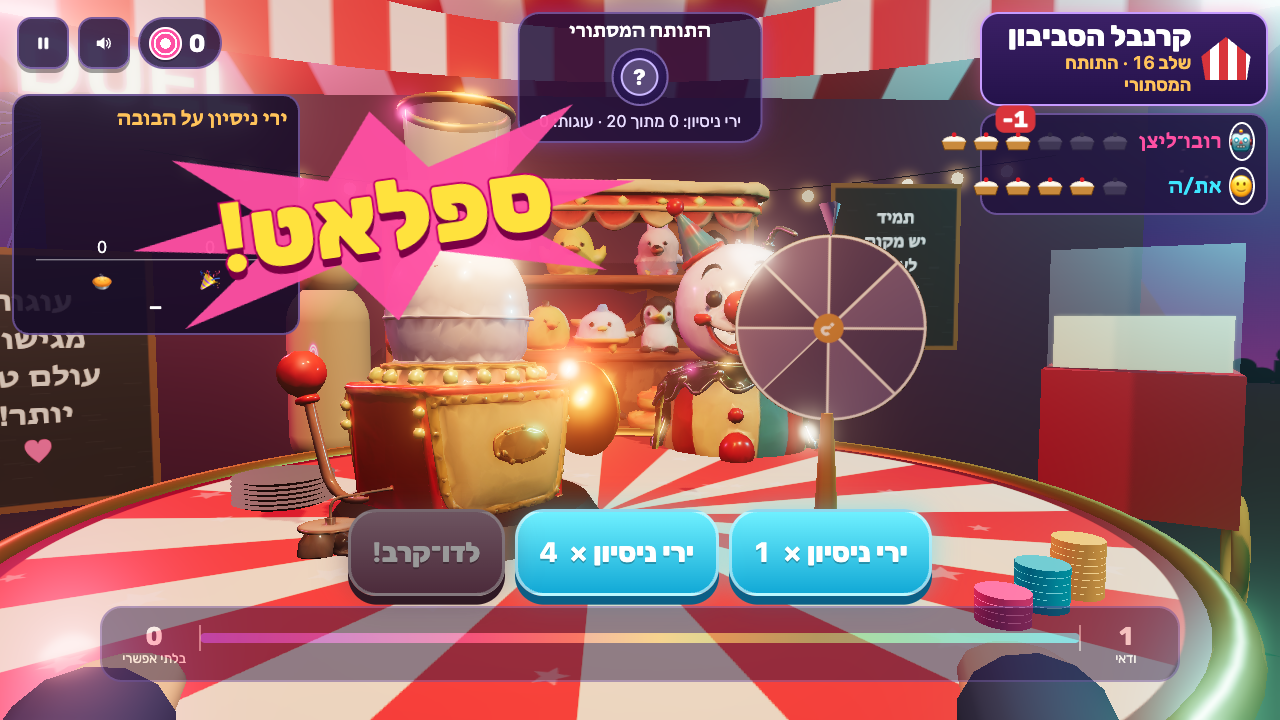
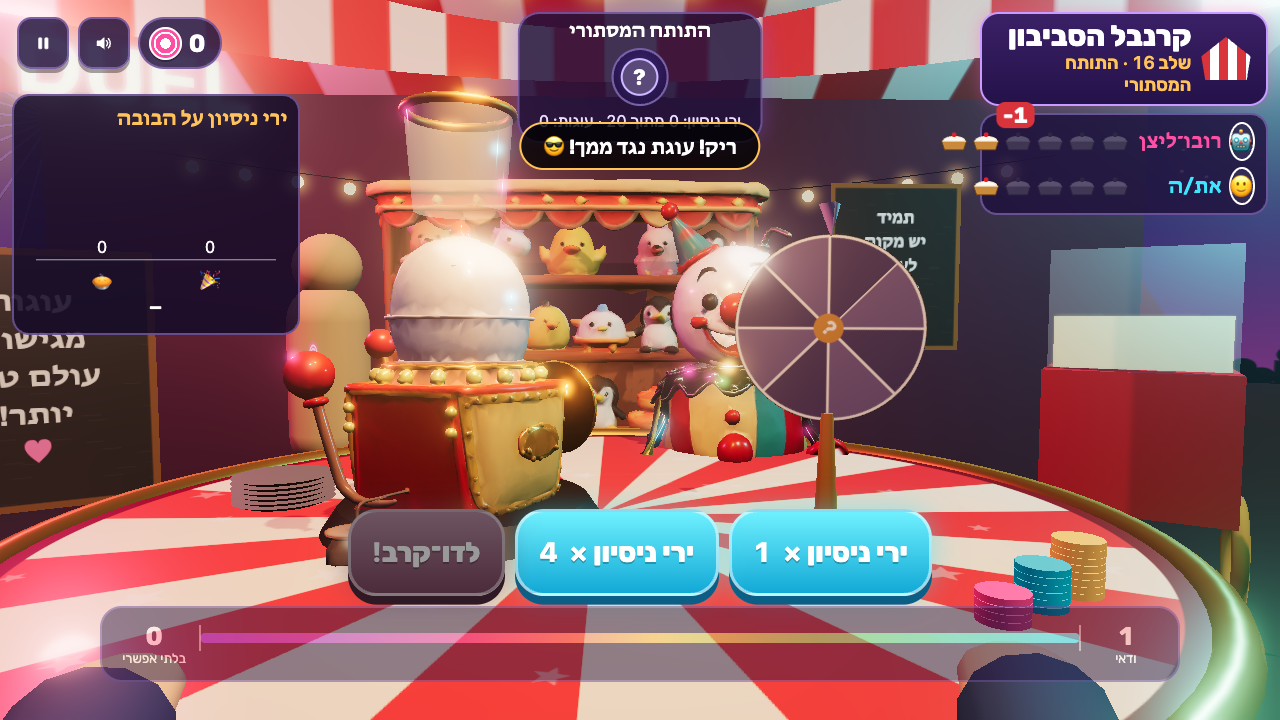
npm scripts for Monte Carlo, smoke run and captures; progress notes

diff --git a/progress.md b/progress.md
@@ -1,3 +1,20 @@
 # Pie Duel — progress
 
-- 2026-10-30: repo created, handoff docs copied to `docs/handoff/`. Next: gameplay mockups (ChatGPT in Chrome; `OPENAI_API_KEY` not set, so the imagegen CLI route is unavailable), Tripo rivals, booth 1 level 1.
+## 2026-10-30 / 31
+
+- Repo created locally with the handoff docs (`docs/handoff/`). **Creating the public GitHub repo `AceDZN/pie-duel` was blocked** by the Claude Code auto-mode permission classifier ("Create Public Surface") on both attempts, so nothing is pushed yet. All work is committed on local `main`. To publish: `gh repo create AceDZN/pie-duel --public --source . --push` from the repo folder (or allow that command for the session).
+- Gameplay mockups: 5 images via ChatGPT in the user's Chrome (`docs/visual-targets/`, prompts in `PROMPTS.md`). `OPENAI_API_KEY` isn't set, so the imagegen CLI route wasn't used.
+- Tripo (user's Chrome, Browser 2): 8 generations + 3 rigs used (budget cap). Rigged with Mixamo presets: Chef Bubu, Grandma Rina, Robo-Clown; the Twin is a rigged character reused from the user's own Tripo assets. Props: Pie-o-Matic, cream pie, prize shelf (+ spinner wheel and booth stall, unused). **No Big Mo model** (budget spent): he's the Bubu rig recoloured and scaled. Details in `ASSETS.md`.
+- **Rule change from the handoff (important):** an exact DP showed that with Buckshot-style rules (dud at yourself → go again) *always firing at the rival* is optimal in every state, so the "> ½" rule would have taught a losing strategy. The table rule is now "every shot is a call, the turn always passes": at the rival, pie → rival creamed, dud → their counter-pie creams you; at yourself, dud → dare-bonus pie creams the rival, pie → you. Under this rule the probability rule is exactly optimal (proof in `GAME_IDENTITY.md`, tests in `tests/strategies.test.ts`).
+- Pure core (`src/core/`): exact fractions, probability helpers (conditional with peeked/magnified positions and the flavor light, P(at least one of two), area model, bets), the duel state machine, rival AI (naive / odds / gambler's fallacy / champion with Peek), scoring and the fairness rule (win OR ≥ 80 % odds-correct calls with both kinds of question answered; good calls carry into the rematch). Endless "carnival night" generator with solver checks.
+- All 17 levels authored, tuned with Monte Carlo and verified (`LEVELS.md`, `CURRICULUM.md`). 65 unit tests pass (`npm test`): probability math, every level solvable, teaching moments, constant strategies don't pass, fairness, rivals, consequences, endless nights.
+- 3D game (`src/scene.ts`, `src/game.ts`): booth, Tripo rivals with idle / laugh / hit / cheer / defeat clips, Pie-o-Matic swivel + lever + slow-motion flight, cream and confetti particles, counter-pies and dare-bonus pies, spinner wheels, coin, test dummy, rooftop final with fireworks; Hebrew RTL HUD after the mockups; card shop; midway level select with rival portraits rendered from the models; title, pause, mute, reduced motion, saved progress, learning log in localStorage.
+- Headless smoke run (`tests/smoke.mjs`) plays all 17 levels through the HUD buttons with the solver's moves: all complete, no console errors. Captures (`tests/capture.mjs`) at mockup size → `docs/captures/`; comparison in `docs/VISUAL_REVIEW.md`.
+- Measured: 120 fps in headed Chrome at 1280×720 (DPR 1, Apple M2 Max). JS bundle 789 kB (208 kB gzip); models 7 GLBs ≈ 11 MB total.
+
+## Open
+
+- Publish to GitHub (blocked, see above). Vercel deploy not done (not requested).
+- Big Mo model and a face rig (needs Tripo credits beyond the agreed budget).
+- Independent playtest findings → `PLAYTEST.md`.
+- Human playtest with students: fun and learning can't be measured by automation.

diff --git a/README.md b/README.md
@@ -20,6 +20,9 @@ npm run dev      # http://localhost:5216
 npm test         # unit tests, solver checks, Monte Carlo strategy comparisons
 npm run build    # static build in dist/ (relative base, works offline)
 npm run preview  # http://localhost:4216
+npm run mc       # Monte Carlo strategy table for all levels
+npm run smoke    # headless Chrome plays all 17 levels through the HUD (needs a server; BASE=http://localhost:4216/ for the preview)
+npm run capture  # gameplay screenshots at mockup size into docs/captures/
 ```
 
 ## Controls
